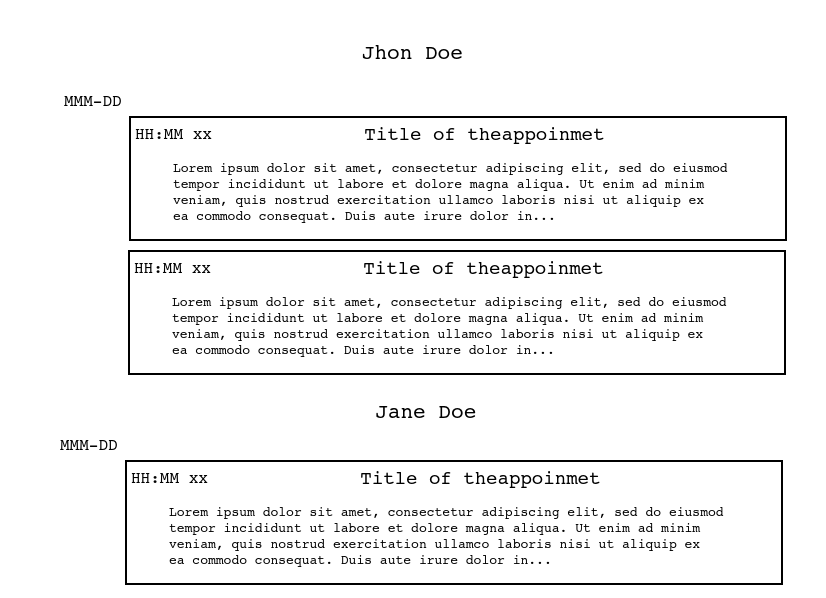
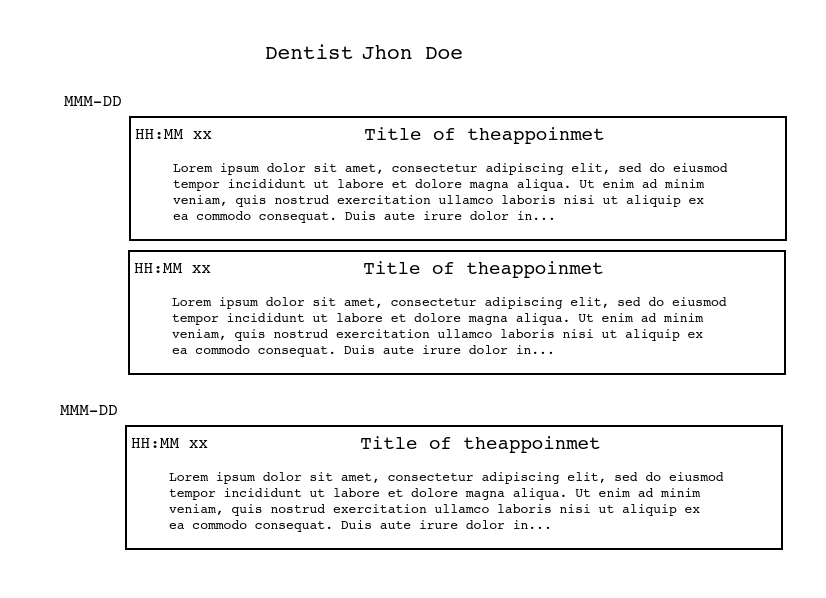
Create first approach for PersonAppoinments component
Using harcoded data

Changed region(s): [[0.0605, 0.6622, 0.9383, 0.9933], [0.3329, 0.0602, 0.4237, 0.1204], [0.0605, 0.6622, 0.1513, 0.6923]]

diff --git a/v-appoinments-project/src/App.vue b/v-appoinments-project/src/App.vue
@@ -1,15 +1,44 @@
 <template>
-  <img alt="Vue logo" src="./assets/logo.png">
-  <HelloWorld msg="Welcome to Your Vue.js App"/>
+  <PersonAppoinments
+    personName="Dentist Jhon Doe"
+    :appoinments="{
+      'Jun-09':
+        {
+          '09:00 am': {
+            'patient': 'Laura Martinez',
+            'notes': 'At vero eos et accusamus et iusto odio dignissimos ducimus qui blanditiis praesentium voluptatum deleniti atque corrupti quos dolores et quas molestias excepturi sint occaecati cupiditate '
+          },
+          '10:00 am': {
+            'patient': 'Kendra Rodriguez',
+            'notes': 'Et harum quidem rerum facilis est et expedita distinctio. Nam libero tempore, cum soluta nobis est eligendi optio cumque nihil impedit quo'
+          },
+          '04:00 pm': {
+            'patient': 'Monica Smith',
+            'notes': 'hic tenetur a sapiente delectus, ut aut reiciendis voluptatibus maiores alias consequatur aut perferendis doloribus asperiores repellat'
+          }
+        },
+      'Jun-10':
+        {
+          '08:00 am': {
+            'patient': 'Abril White',
+            'notes': 'At vero eos et accusamus et iusto odio dignissimos ducimus qui blanditiis praesentium voluptatum deleniti atque corrupti quos dolores et quas molestias excepturi sint occaecati cupiditate '
+          },
+          '10:30 am': {
+            'patient': 'Williams Frederick',
+            'notes': 'Et harum quidem rerum facilis est et expedita distinctio. Nam libero tempore, cum soluta nobis est eligendi optio cumque nihil impedit quo'
+          }
+        }
+    }"
+    />
 </template>
 
 <script>
-import HelloWorld from './components/HelloWorld.vue'
+import PersonAppoinments from './components/PersonAppoinments.vue'
 
 export default {
   name: 'App',
   components: {
-    HelloWorld
+    PersonAppoinments
   }
 }
 </script>

diff --git a/v-appoinments-project/src/components/PersonAppoinments.vue b/v-appoinments-project/src/components/PersonAppoinments.vue
@@ -1,0 +1,63 @@
+<template>
+  <div class="person">
+    <h1>{{ personName }}</h1>
+    <div v-for="(appItems, key) in appoinments" v-bind:key="key">
+      <h3>{{key}}</h3>
+      <div class="appoinment-data" v-for="(appoinment, keyA) in appItems" v-bind:key="keyA">
+        <div class="app-title">
+          <p class="hour">{{keyA}}</p>
+          <p class="patient">{{appoinment.patient}}</p>
+        </div>
+        <p class="notes">{{appoinment.notes}}</p>
+      </div>
+    </div>
+  </div>
+</template>
+
+<script>
+export default {
+  name: 'PersonAppoinments',
+  props: {
+    personName: String,
+    appoinments: Object
+  }
+}
+</script>
+
+<!-- Add "scoped" attribute to limit CSS to this component only -->
+<style scoped>
+.person {
+  max-width: 85%;
+  margin: 1rem auto;
+}
+h3 {
+  margin: 40px 0 0;
+  text-align: left;
+}
+.appoinment-data {
+  max-width: 89%;
+  margin:0.75rem auto;
+  padding: 1.25rem 0.65rem;
+  border: solid 1px rgb(230, 230, 230);
+  box-shadow: 0.55rem 0.3rem rgb(189, 189, 189);
+}
+.app-title {
+  border-bottom: solid 1px rgb(235, 235, 235);
+  display: flex;
+}
+.hour {
+  background-color: rgb(242, 242, 242);
+  border: solid 1px rgb(242, 242, 242);
+  border-radius: 0.8rem;
+  padding: 0.35rem 1rem;
+}
+.patient {
+  margin-left: 6.25rem;
+  flex: 1;
+  font-weight: bold;
+}
+.notes {
+  text-align: left;
+  padding: 2% 2% 3% 6%;
+}
+</style>
